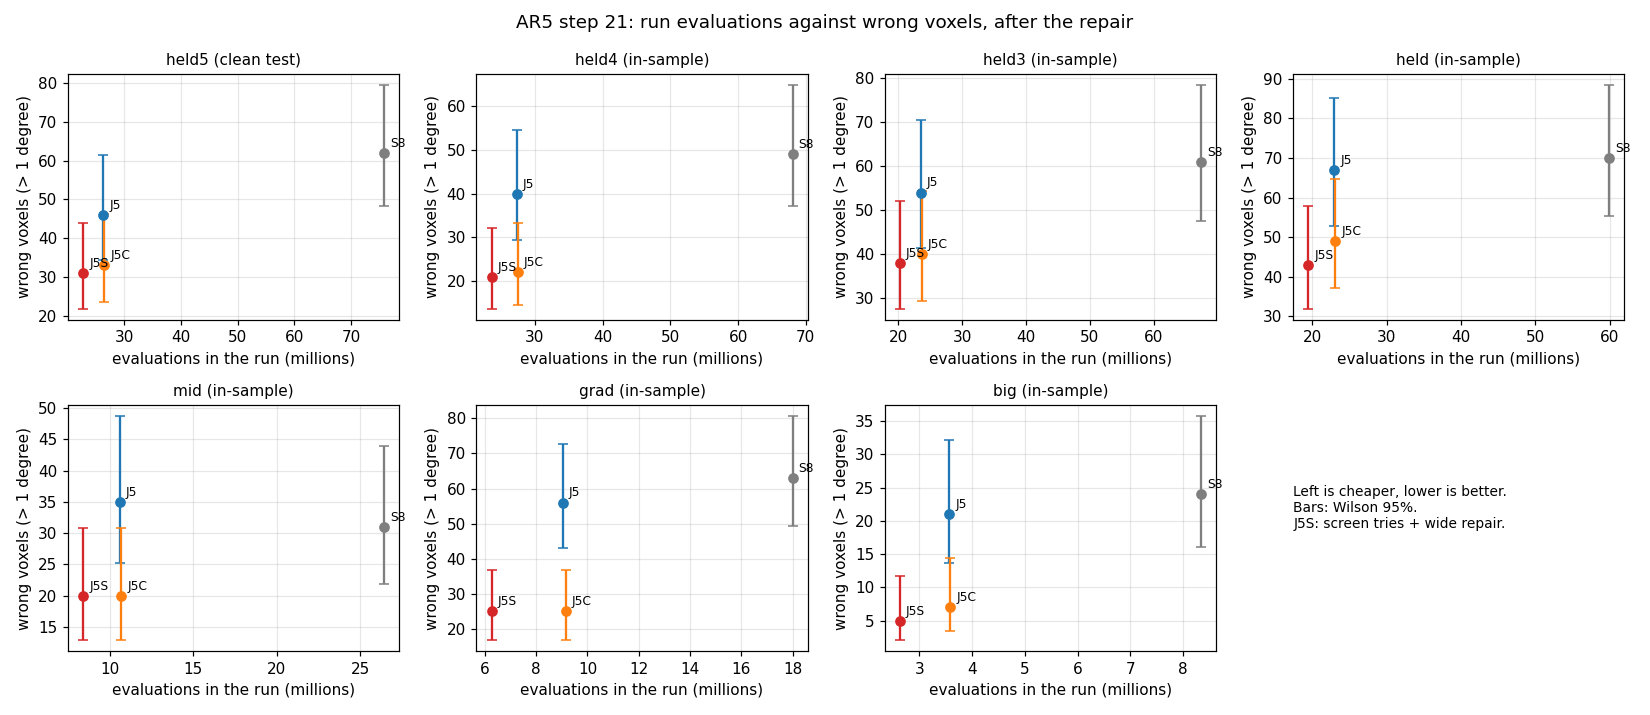
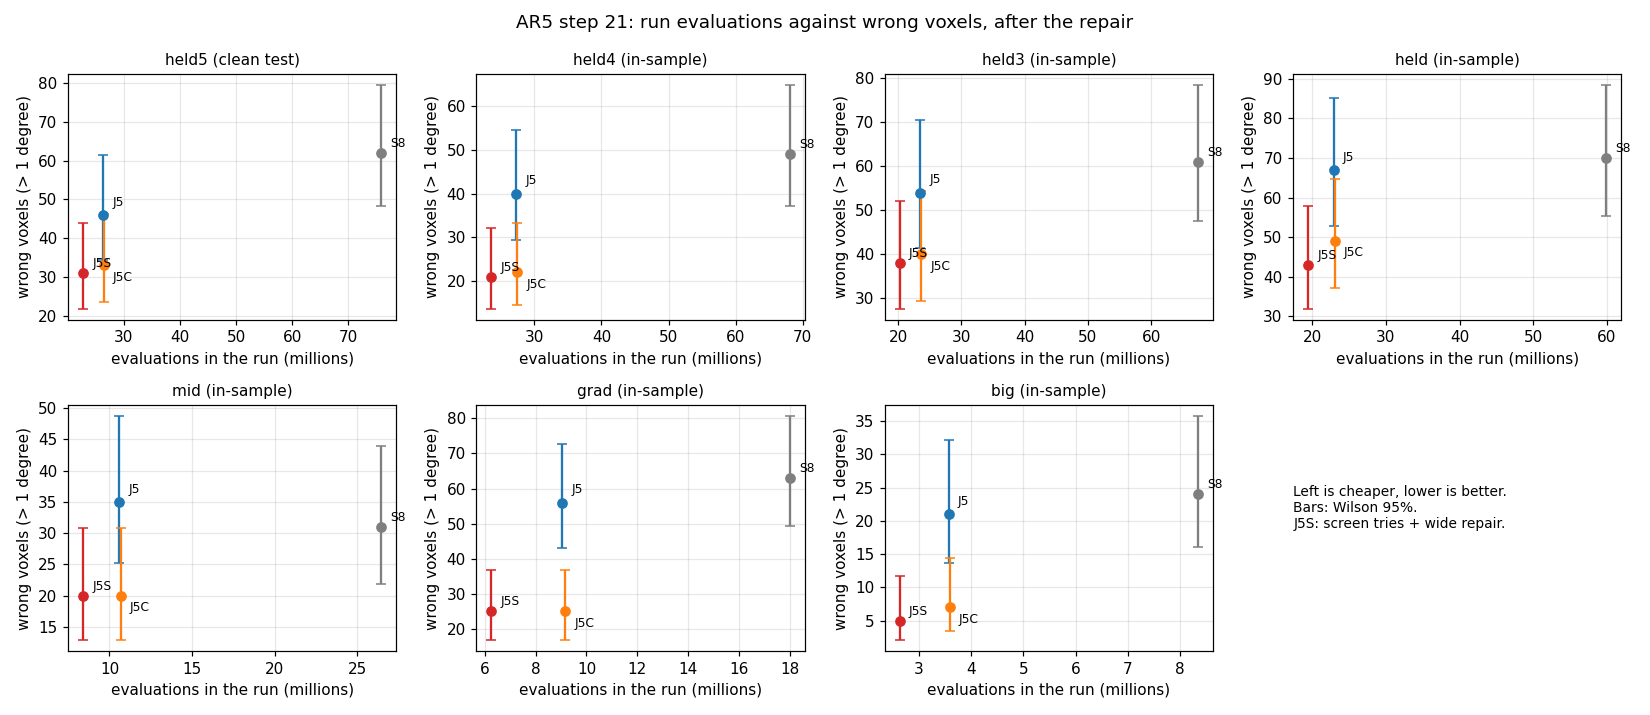
AR5 step 21: review fixes (wording, truth disclosure, atime, old-end scores), README, plot label

diff --git a/icenine_py/scripts/autoresearch/ar5/screen_summary.py b/icenine_py/scripts/autoresearch/ar5/screen_summary.py
@@ -18,7 +18,7 @@ from typing import Any, Dict, List
 
 import screen_guard as SG
 import screen_rules as SR
-from screen_freeze import FROZEN, ICE, problems
+from screen_freeze import FROZEN, ICE, current as _current
 
 import numpy as np  # noqa: E402
 
@@ -98,12 +98,39 @@ def validity() -> Dict[str, Any]:
     v["J5C_J5S_same_J5_run"] = bool(
         jl(C / "J5C_held5" / "repair.json")["stored_pass_evals"] == sc["stored_pass_evals"]
     )
-    # the arm reads no truth: the loader of the two arms is called with truth=False
+    # The decision path uses no truth: the arms call the loader with truth=False (a text check of
+    # the source, NOT a statement about the process). In the process, boundary_common.Env("grad")
+    # builds gradient_common.Truth(), which reads held5's truth map, grain map and sample.json
+    # outside the guard (also in the J5 and S8 pass jobs). The flag, the pass and the repair never
+    # use env.T, Rtrue or gmap; a recomputation of the wide flag without truth reproduced the
+    # stored masks (review of 2026-11-16).
     src = (Path(__file__).resolve().parent / "screen_run.py").read_text()
-    v["arms_load_inputs_without_truth"] = bool(
+    v["arms_call_loader_without_truth_flag"] = bool(
         "load_inputs(s, truth=False)" in src and "read_truth" not in src
     )
-    v["freeze_check"] = problems() or "ok"
+    # The library moved in phase B (the key): the freeze check compares scripts and library files
+    # one by one and allows exactly the five library files phase B edits.
+    saved = json.loads(FROZEN.read_text())
+    cur = _current()
+    moved = sorted(k for k, h in cur["library"].items() if saved["library"].get(k) != h)
+    moved += sorted(k for k, h in cur["files"].items() if saved["files"].get(k) != h)
+    allowed = {
+        "icenine/boundary_pass.py",
+        "icenine/boundary_repair.py",
+        "icenine/config_file.py",
+        "icenine/orientation_search.py",
+        "icenine/reconstructor.py",
+    }
+    v["files_moved_since_freeze"] = moved
+    v["freeze_check"] = "ok" if set(moved) <= allowed else "FAILED: " + ", ".join(moved)
+    v["freeze_commit_intact"] = bool(
+        not subprocess.run(
+            ["git", "status", "--porcelain", "--", str(FROZEN)],
+            cwd=str(ICE),
+            capture_output=True,
+            text=True,
+        ).stdout.strip()
+    )
     t = subprocess.run(
         ["git", "log", "-1", "--format=%ct", "--", str(FROZEN)],
         cwd=str(ICE),
@@ -126,10 +153,10 @@ def validity() -> Dict[str, Any]:
     v["n_held5_output_files"] = len(files)
     v["oldest_held5_output_minus_freeze_s"] = float(min(mt) - froz)
     v["freeze_older_than_every_held5_output"] = bool(min(mt) > froz)
-    # informational (this summary and any reader after the marker raise these): the access times
-    # of the held5 maps were also taken by hand BEFORE any held5 read; see the report
-    # access times of the held5 maps: none after the marker (macOS may not update atime on every
-    # read: this is consistent with, not proof of, no read before the marker)
+    # Informational only, NOT evidence: on this machine a read did not move atime when atime was
+    # not older than mtime (the pass jobs' reads of recon.mic.gz and Env's truth reads left no
+    # trace), and this summary's own reads raise these. The case that nobody read held5 before the
+    # marker rests on run order and the session record.
     maps = [f for f in files if f.suffix in (".npy", ".npz", ".mic", ".gz")]
     late = [f.name for f in maps if f.stat().st_atime > marker_mtime + 1]
     v["n_map_files_checked"] = len(maps)
@@ -160,7 +187,7 @@ def validity() -> Dict[str, Any]:
         and v["J5S_extra_voxels_listed"]
         and v["J5S_flagged_is_contested_plus_extra"]
         and v["J5C_J5S_same_J5_run"]
-        and v["arms_load_inputs_without_truth"]
+        and v["arms_call_loader_without_truth_flag"]
         and v["freeze_check"] == "ok"
         and v["freeze_older_than_every_held5_output"]
     )
@@ -178,7 +205,14 @@ def side(err: np.ndarray) -> Dict[str, Any]:
 
 def pair(w_old: np.ndarray, w_new: np.ndarray) -> Dict[str, int]:
     f, b = SR.fixed_broken(w_old, w_new)
-    return dict(fixed=int(f), broken=int(b), net=int(b - f), both_wrong=int((w_old & w_new).sum()))
+    lo, hi = ST.wilson(int(f), int(f + b)) if f + b else (float("nan"), float("nan"))
+    return dict(
+        fixed=int(f),
+        broken=int(b),
+        net=int(b - f),
+        both_wrong=int((w_old & w_new).sum()),
+        fixed_share_of_discordant_wilson=[float(lo), float(hi)],
+    )
 
 
 def row(s: str) -> Dict[str, Any]:
@@ -487,7 +521,8 @@ def plot(rows: Dict[str, Any]) -> None:
                 capsize=3,
                 label=a,
             )
-            ax.annotate(a, (x, yv), textcoords="offset points", xytext=(4, 4), fontsize=8)
+            dy = {"S8": 4, "J5": 6, "J5C": -10, "J5S": 4}[a]
+            ax.annotate(a, (x, yv), textcoords="offset points", xytext=(6, dy), fontsize=8)
         ax.set_title(s + (" (clean test)" if s == "held5" else " (in-sample)"), fontsize=10)
         ax.set_xlabel("evaluations in the run (millions)")
         ax.set_ylabel("wrong voxels (> 1 degree)")

diff --git a/icenine_py/README.md b/icenine_py/README.md
@@ -238,6 +238,7 @@ For the ThreeVoxels test case: 252s (BFS) vs 6638s (serial) — 26× faster. The
 | `BFSNeighborCMANoFallback` | Optional, Python only, opt-in, default 0 (AR5 step 5): 1 = with `BFSNeighborCMAFirst 1`, the CMA end of a neighbour fit or revisit is returned as it is, even when its cost is not below its start cost; the stock MC fit does not run after it. Needs `BFSNeighborCMAFirst 1` (`ValueError` otherwise, and with `PaintGrains 1`, `LocalOptimizer cma` or the hybrid optimizer). Adds `stats['cma_not_fell']` (CMA fits whose end cost was not below the start cost; the MC fit would have run). Off by default; no setting is recommended | 0 |
 | `BoundaryPassSkipHitRatio` | Optional, Python only, opt-in, default 0 = off (AR5 step 7), a float in [0, 1]. With `BoundaryPass 1`, a boundary voxel whose own hit ratio (the hit ratio of its end before the pass, from the score the pass already makes) is at least this value gets no try and keeps its end. Its score is still made and counted (`n_evals_boundary_score`: one evaluation per boundary voxel, key on or off). Adds `stats['boundary_skipped']` (key on only); `boundary_voxels` still counts all boundary voxels. Needs `BoundaryPass 1` (`ValueError` otherwise, and with `PaintGrains 1`). One generator serves the whole pass; a skipped voxel's tries each draw their one CMA seed from it and discard it (no evaluation), so every kept try gets the same random draw as in the full pass (variant 2, decided after the first live result, D-20261112-N5). The key always gives variant 2: variant 1 (skipped tries draw nothing, the plan's pre-set test) cannot be selected and is reproducible only at commit `7b4fd0f`. Off by default and not recommended yet: see `docs/autoresearch/findings_ar5_gate.md` for the measured effect (0.95 is the value tested) | 0 |
 | `BoundaryPassRepair` | Optional, Python only, opt-in, default 0 = off (AR5 step 20, D-20261115-N10), a bool. With `BoundaryPass 1`, after the pass each contested voxel (hit ratio under 0.95 of its neighbours' median and margin under 0.15 over its best other pass end; no truth) gets one local CMA optimization (first step 0.05 degree, at most 120 evaluations plus the final one: 121) from its own end and from each candidate of the map after the pass, each with its own generator `default_rng([0, v, c + 1])`, and keeps the end with the highest hit ratio, then the lowest cost, then its current end. The settings are constants of `icenine/boundary_repair.py`. Needs `BoundaryPass 1` (`ValueError` otherwise, and with `PaintGrains 1`). Adds `stats['repair_flagged']`, `['repair_fits']`, `['repair_changed']`, `['n_evals_boundary_repair']` (every evaluation of the repair, key on only; not in any record's `n_evals`) and `bfs.repair_log`; `res.repair` of `run_boundary_pass` holds the fits and the state before the repair. Measured on clean images (`docs/autoresearch/findings_ar5_cmarepair.md`): on the new sample `held4` it costs 0.50% of the `J5` run and fixes 18 wrong voxels and breaks none; one clean sample, so not a default. Off: bit-identical (`tests/test_boundary_repair.py`, full suite) | 0 |
+| `BoundaryPassScreen` | Optional, Python only, opt-in, default 0 = off (AR5 step 21, D-20261116-N1), a bool. Needs `BoundaryPass 1` and `BoundaryPassRepair 1` (`ValueError` otherwise, and with `BoundaryPassSkipHitRatio > 0`). Every boundary-pass try gets a budget of one evaluation (a screen try: the candidate's start is scored and is the try's end; 2 evaluations with the final one; the library refuses a budget under 2 elsewhere), and the repair of `BoundaryPassRepair` takes the wide flag: the contested voxels plus the voxels whose ratio (hit ratio over the median hit ratio of their neighbours) is under 0.95 and that have a pass candidate more than 1 degree from the kept end. Settings are constants of `icenine/boundary_pass.py` and `icenine/boundary_repair.py`. Adds `stats['repair_extra']` (key on only) and `res.repair.extra`. Measured on clean images (findings text in `.claude/reports/20261116-0125-ar5u-findings_ar5_screen.md`; its write under `docs/` is refused): on the new sample `held5` it uses 13.9% fewer evaluations than the repair alone and 31 wrong voxels of 24,570 against 33 (4 fixed, 2 broken; one clean sample, so not a default). Off: bit-identical (`tests/test_boundary_screen.py`, full suite) | 0 |
 | `SeedRescueCMA` | Optional, Python only, opt-in, default `0 0` = off (AR5 step 9, rule `G1`, D-20261113-N1): two values, `sigma` (degrees) and `evals`; both 0, or a finite sigma > 0 and an integer evals >= 2 (anything else raises `ValueError`). With the key on, a BFS seed or reseed whose indexed seed step fails the seed test (`MinAccelerationThreshold`) is rescued before the grid search: the kept end of each refined candidate (`finisher_R`, `finisher_costs` of `index_seed`) is tried in order of cost, ties by position, at most 5, with one CMA local optimization (`AdaptiveVoxelReconstructor.rescue_seed`: first step `sigma`, `evals` evaluations, a fresh `default_rng(0)` each, so the run's generator is not used); the first end whose hit ratio reaches `SeedIndexStopHitRatio` is the seed's result and the grid search does not run; if none does, the grid search runs as before. Each try counts its evaluations (1,000 counts 1,001) as the seed's (`n_evals_seed`, the voxel's record); the one overlap evaluation per try for the hit ratio is not counted. Adds `stats['index_rescue_runs']`, `['index_rescue_tries']`, `['index_rescue_evals']`, `['index_rescued']` and `rescue` in the `index_log` entry (key on only); `index_fallback_grid_evals` keeps the grid search alone. Needs `SeedByIndexing 1`, `SeedIndexStopHitRatio` above 0 and `LocalOptimizer mc` (`ValueError` otherwise, and with the hybrid optimizer or `PaintGrains 1`). The values tested are `0.25 1000` (MIGRATION_HISTORY, "Autoresearch AR5 step 9", phases A and B; accepted in D-20261113-N2 on the run's equality with the script arm before the boundary pass). Off by default; turning it on by default is the owner's choice, not a recommendation of the study | `0 0` |
 | `SeedIndexMCStallHit` | Optional, Python only, opt-in, default 0 = off (AR5 step 12, rule `PH(k)`, D-20261113-N8): one integer k >= 0 (a negative or non-integer value, or a second value, raises `ValueError`). With k >= 1, every MC local optimization of a candidate in the indexed seed step (the stock refinement, or the MC refinement of the mixed one with `SeedIndexCMAFirst`) counts its strict-cost evaluations over its MC stage, variance stage and final evaluation (`AdaptiveVoxelReconstructor.seed_mc_refine`, the wrapper `SeedMCStallHit` on that refinement's own cost function only). After k evaluations with no strict gain of the best cost there is one stall check: the hit ratio of the kept best (the first lowest-cost orientation; a tie does not replace it) is evaluated once and counted as one evaluation. At `SeedIndexStopHitRatio` or more the refinement ends there with that orientation and its cost (the check is its final evaluation); else it goes on, and checks again k evaluations after the next strict gain (no second check without a gain). The refinement keeps its own `default_rng(0)`, so a stop moves no other random draw. CMA fits, the rescue, the grid search, neighbours, revisits and the boundary pass are not touched. Adds `stats['index_stallhit_refinements']`, `['index_stallhit_checks']`, `['index_stallhit_stops']`, `['index_stallhit_went_on']`, `['index_stallhit_evals_in_stopped']` and `stall_hit` in each `index_log` entry (key on only). Needs `SeedByIndexing 1`, `SeedIndexStopHitRatio` above 0 and `LocalOptimizer mc` (`ValueError` otherwise, and with the hybrid optimizer or `PaintGrains 1`). The values tested are 3000 (MIGRATION_HISTORY, "Autoresearch AR5 step 12") and 500 (AR5 step 16, on `mid`, equal to script arm `J5l` = `J5` without `G2b` (no library key)), on real data only together with `SeedIndexCMAFirst 200` and `SeedRescueCMA 0.25 1000`; the stock path without `SeedIndexCMAFirst` has unit tests only. Off by default and not recommended as a default | 0 |
 | `CppOverlapRule` | Optional, Python only: 1 = the literal C++ `CountQualifiedPeaks` overlap rule (a lit, non-overlapping later detector invalidates a peak's overlap) in the cost function. (The voxel centroid, as C++ `VoxelToCenter`, is projected by the pixel-radius-3 coarse screen for every rule, with or without this key since 2026-10-12; vertex 0 is only the explicit opt-out `SearchParameters.cpp_center_screen=False` / `VoxelCostFunction(center_screen=False)`, not a config key.) Off keeps the original Python rule. On makes the level-0 candidate counts and cost values match C++ (0.995-1.003x and no -0.013 offset) but lowers E0 accuracy (see MIGRATION_HISTORY "Level-0 candidates"); needs `icenine/_rasterize.c` rebuilt (`HAS_CPP_RULE`; from `icenine_py/`: `uv run --no-project --with setuptools --with numpy python setup.py build_ext --inplace`, since `uv sync --reinstall-package icenine` does not rebuild it), otherwise the slow Python path is used with a one-time warning | 0 |
@@ -962,7 +963,9 @@ Derivations that underpin ongoing work, written in Markdown with LaTeX math
   `screen_build_held5.py`, run-all `screen_run_all.sh`), tests `tests/test_ar5_screen.py` and
   `tests/test_ar5_screen_freeze.py`, results `benchmarks/autoresearch/ar5/screen/`. Script layer, no
   library change, no key yet. Gate on the six disclosed samples met: 14.1% to 31.7% fewer evaluations
-  than `J5C`, prediction 1 reproduced exactly. `held5` (the clean test) not yet run.
+  than `J5C`, prediction 1 reproduced exactly. On `held5` (the clean test, one sample): `J5S` 13.9%
+  fewer evaluations than `J5C` and 70.1% fewer than `S8`, 31 wrong voxels of 24,570 against 33 for
+  `J5C` (4 fixed, 2 broken), rules 1 to 4 pass.
   MIGRATION_HISTORY, "Autoresearch AR5 step 21, phase A".
 
 See [`docs/orientation_nn_design.md`](docs/orientation_nn_design.md) for the status and

diff --git a/icenine_py/MIGRATION_HISTORY.md b/icenine_py/MIGRATION_HISTORY.md
@@ -13297,8 +13297,12 @@ keep the highest hit ratio, then the lowest cost, then the current end. `frozen.
 Approved D-20261115-N11. Branch `feature/eval-reduction-ar5u`. Arm `J5S` = arm `J5` with every
 boundary-pass try cut to its first evaluation (a screen try: the candidate's start is scored, the
 library's final evaluation is counted, so 2 evaluations a try; the end is the start) and step 20's
-repair (imported, not copied) on a wider flag: contested voxels, plus voxels whose hit ratio is
-under 0.95 and one of whose pass candidates lies more than 1 degree from its kept end. Script
+repair (imported, not copied) on a wider flag: contested voxels, plus voxels whose ratio (the
+voxel's hit ratio over the median hit ratio of its neighbours, step 19's `ratio_of`) is under 0.95
+and one of whose pass candidates lies more than 1 degree from its kept end. (The frozen rule text in
+`screen_rules.RULE` and `frozen.json` says "its hit ratio is under 0.95", which reads as the voxel's
+absolute hit ratio; that is loose wording, the code and every result use the relative ratio. The
+absolute reading would flag 3,760 voxels on `held5`, not 1,645. Frozen files are not edited.) Script
 layer only (`scripts/autoresearch/ar5/screen_*.py`, `screen_*.sh`; `tests/test_ar5_screen.py`,
 `tests/test_ar5_screen_freeze.py`); no library change, no key (phase B). `frozen.json` committed
 (`a10837e0`) before any `J5S` pass or repair ran from the tracked scripts and before `held5` existed.
@@ -13342,6 +13346,22 @@ layer only (`scripts/autoresearch/ar5/screen_*.py`, `screen_*.sh`; `tests/test_a
   The replayed `J5C` map of the gate differs from step 20's at 1 to 8 voxels a sample; every such
   voxel has a start orientation that differs (float64 against float32-orthonormalized, up to 6e-8)
   at itself or a neighbour, consistent with the hard-cost CMA taking another path (the neighbour test
-  is weak, so this is not shown); no wrong / right label changes. Not done: phase B (the key).
+  is weak, so this is not shown); no wrong / right label changes.
+- **Corrections after the review (2026-11-16).** (a) Truth in the process: `screen_run.py` and
+  `screen_pass.py` (and the `J5` and `S8` pass jobs) build `boundary_common.Env("grad")`, which
+  calls `gradient_common.Truth()` and so reads held5's truth map, grain map and `sample.json`
+  outside the guard. The flag, the pass and the repair never use `env.T`, `Rtrue` or `gmap`; a
+  recomputation of the wide flag from the grid, the map before the pass, J5's old scores and the
+  screen tries, with no truth, reproduces both stored masks. The summary's old key "arms read no
+  truth" was a text check of the source and is renamed `arms_call_loader_without_truth_flag`. (b)
+  Access times are not evidence: on this machine a read left atime unchanged when atime was not
+  older than mtime (the pass jobs' reads of `recon.mic.gz`, Env's truth reads). That nobody read
+  held5 results before the marker rests on the run order (gate, build, runs, marker, summary) and
+  the session record. Reads of `S8_held5/recon.mic.gz` and `J5_held5/recon.mic.gz` at 00:42, after
+  the marker, are of unknown origin. (c) Evaluation totals leave out the pass's old-end scores
+  (24,570 evaluations per pass, `score_evals` in `D4_J5/pass.json` and `D4_S8/pass.json`), for every
+  arm alike. (d) J5S against J5C on `held5`: 4 fixed of 6 changed (Wilson 95% 0.30 to 0.90): a small
+  count.
+- Phase B (the key `BoundaryPassScreen`) follows below.
 - Results: `benchmarks/autoresearch/ar5/screen/` (`frozen.json`, `gate.json`, `gate_tables.md`; the
   cache is untracked).
